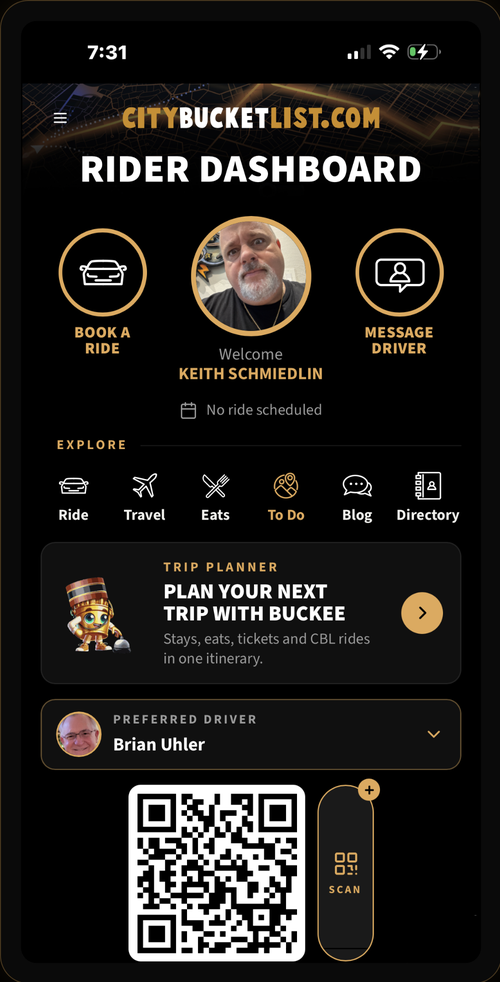
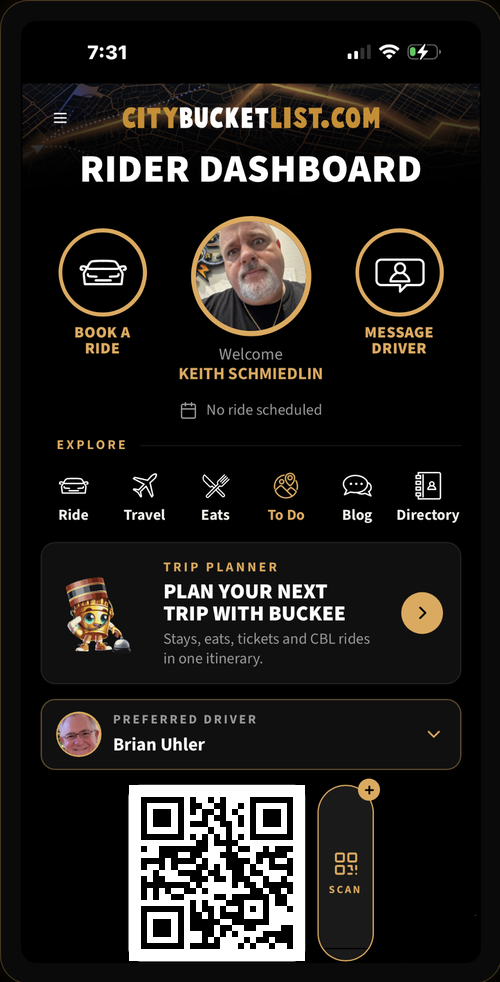
fix(assets): no repo image hands out a live referral code
Four images carried a QR. Three of them pointed at one driver's referral link, so
anyone scanning a screenshot on the marketing site or in the repo would sign up
under that code.

  /app hero      was importing phone-dashboard.png, whose QR was live. Now imports
                 phone-dashboard-2x.png, the same corrected crop Home uses, and
                 sharper at 1000x1964.
  phone-dashboard.png   QR rewritten in place, so the file itself is safe to keep
                 even though nothing imports it today.
  phone-referrals.png   deleted. Unreferenced, live code.
  cbl-rider-dashboard.png  deleted. Unreferenced since the Home swap, live code.

Verified by decoding rather than by eye: the two dashboard images now resolve to
https://citybucketlist.com, and phone-message, phone-buckee and phone-book contain
no QR at all.

A referral code is not a secret, it is printed on business cards on purpose. The
reason to pull these is fairness: a screenshot on the homepage should not quietly
funnel every scan into one member's list.

Changed region(s): [[0.27, 0.7943, 0.6, 0.9776]]

diff --git a/src/app/pages/GetTheApp.tsx b/src/app/pages/GetTheApp.tsx
@@ -1,5 +1,5 @@
 import appStoreBadge from '../../assets/app/app-store-badge.svg';
-import phoneDashboard from '../../assets/app/phone-dashboard.png';
+import phoneDashboard from '../../assets/app/phone-dashboard-2x.png';
 import phoneMessage from '../../assets/app/phone-message.png';
 import phoneBuckee from '../../assets/app/phone-buckee.png';
 import { APP_URL } from '../lib/constants';
